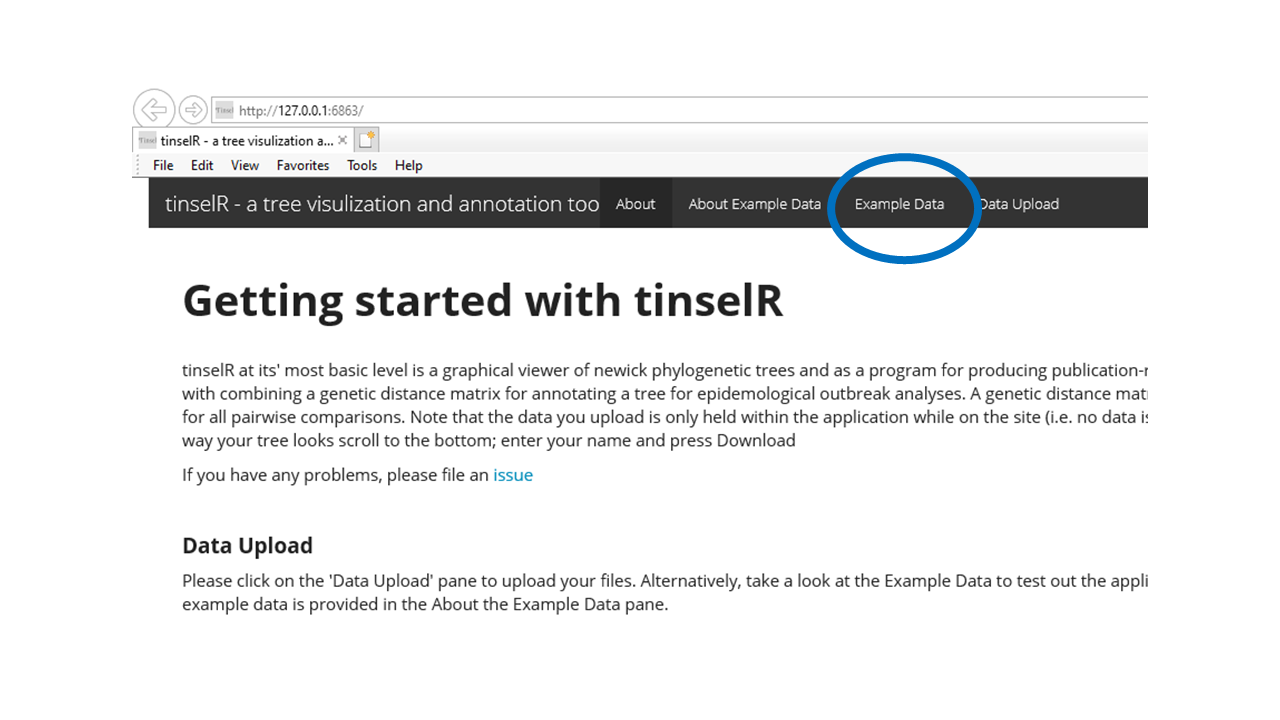
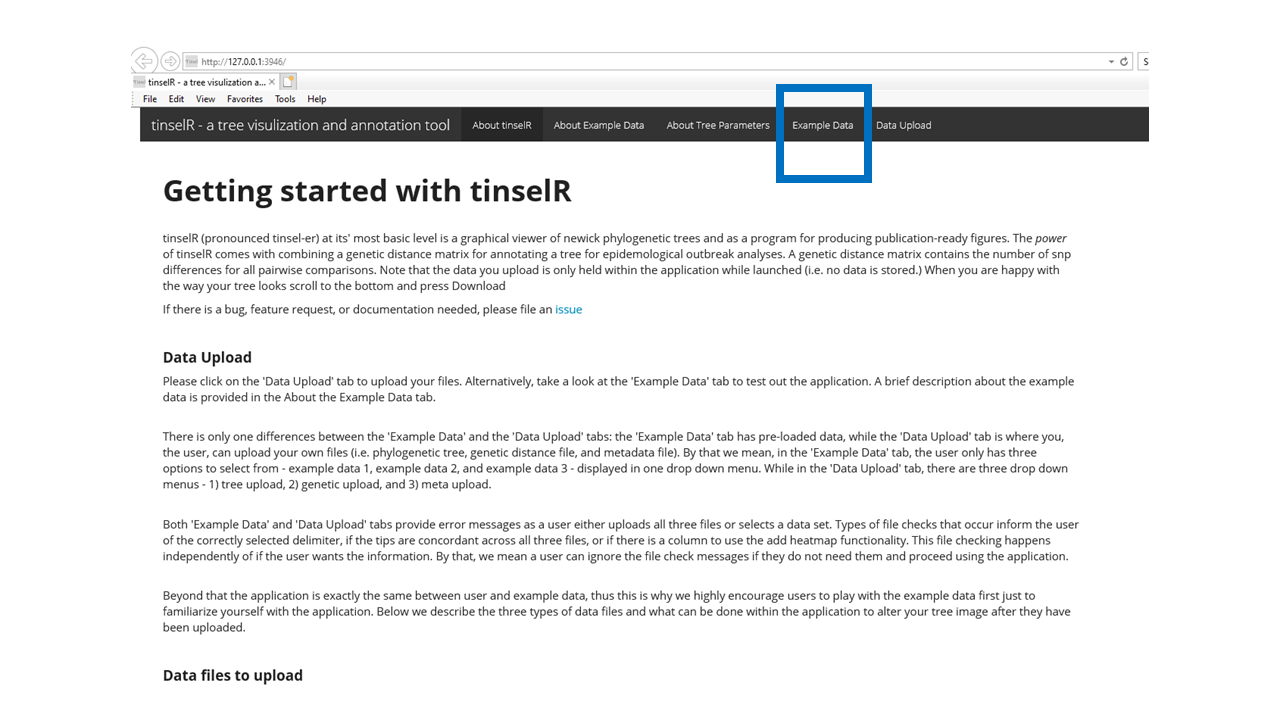
updating images for vignette, readme, and about

diff --git a/README.md b/README.md
@@ -87,7 +87,7 @@ See image below for a csv file example.
 * Alter visualization parameters. See below for tree with aligned tips.  
 
 <p>
-    <img src = "inst/app/www/treeWAlignedTips.PNG" />
+    <img src = "inst/app/www/Slide4.PNG" />
 </p>
 
 #### Once the genetic distance file is uploaded you can -
@@ -95,7 +95,7 @@ See image below for a csv file example.
 with annotated clades including the range of SNPs. 
 
 <p>
-    <img src = "inst/app/www/treeWAnno.PNG" />
+    <img src = "inst/app/www/Slide5.PNG" />
 </p>
 
 #### If column for heatmap is included in metadata file you can -
@@ -103,7 +103,7 @@ with annotated clades including the range of SNPs.
 with annotated clades and a heatmap. 
 
 <p>
-    <img src ="inst/app/www/treeWAnnoAndHeatmap.PNG" />
+    <img src ="inst/app/www/Slide6.PNG" />
 </p>
 
 
